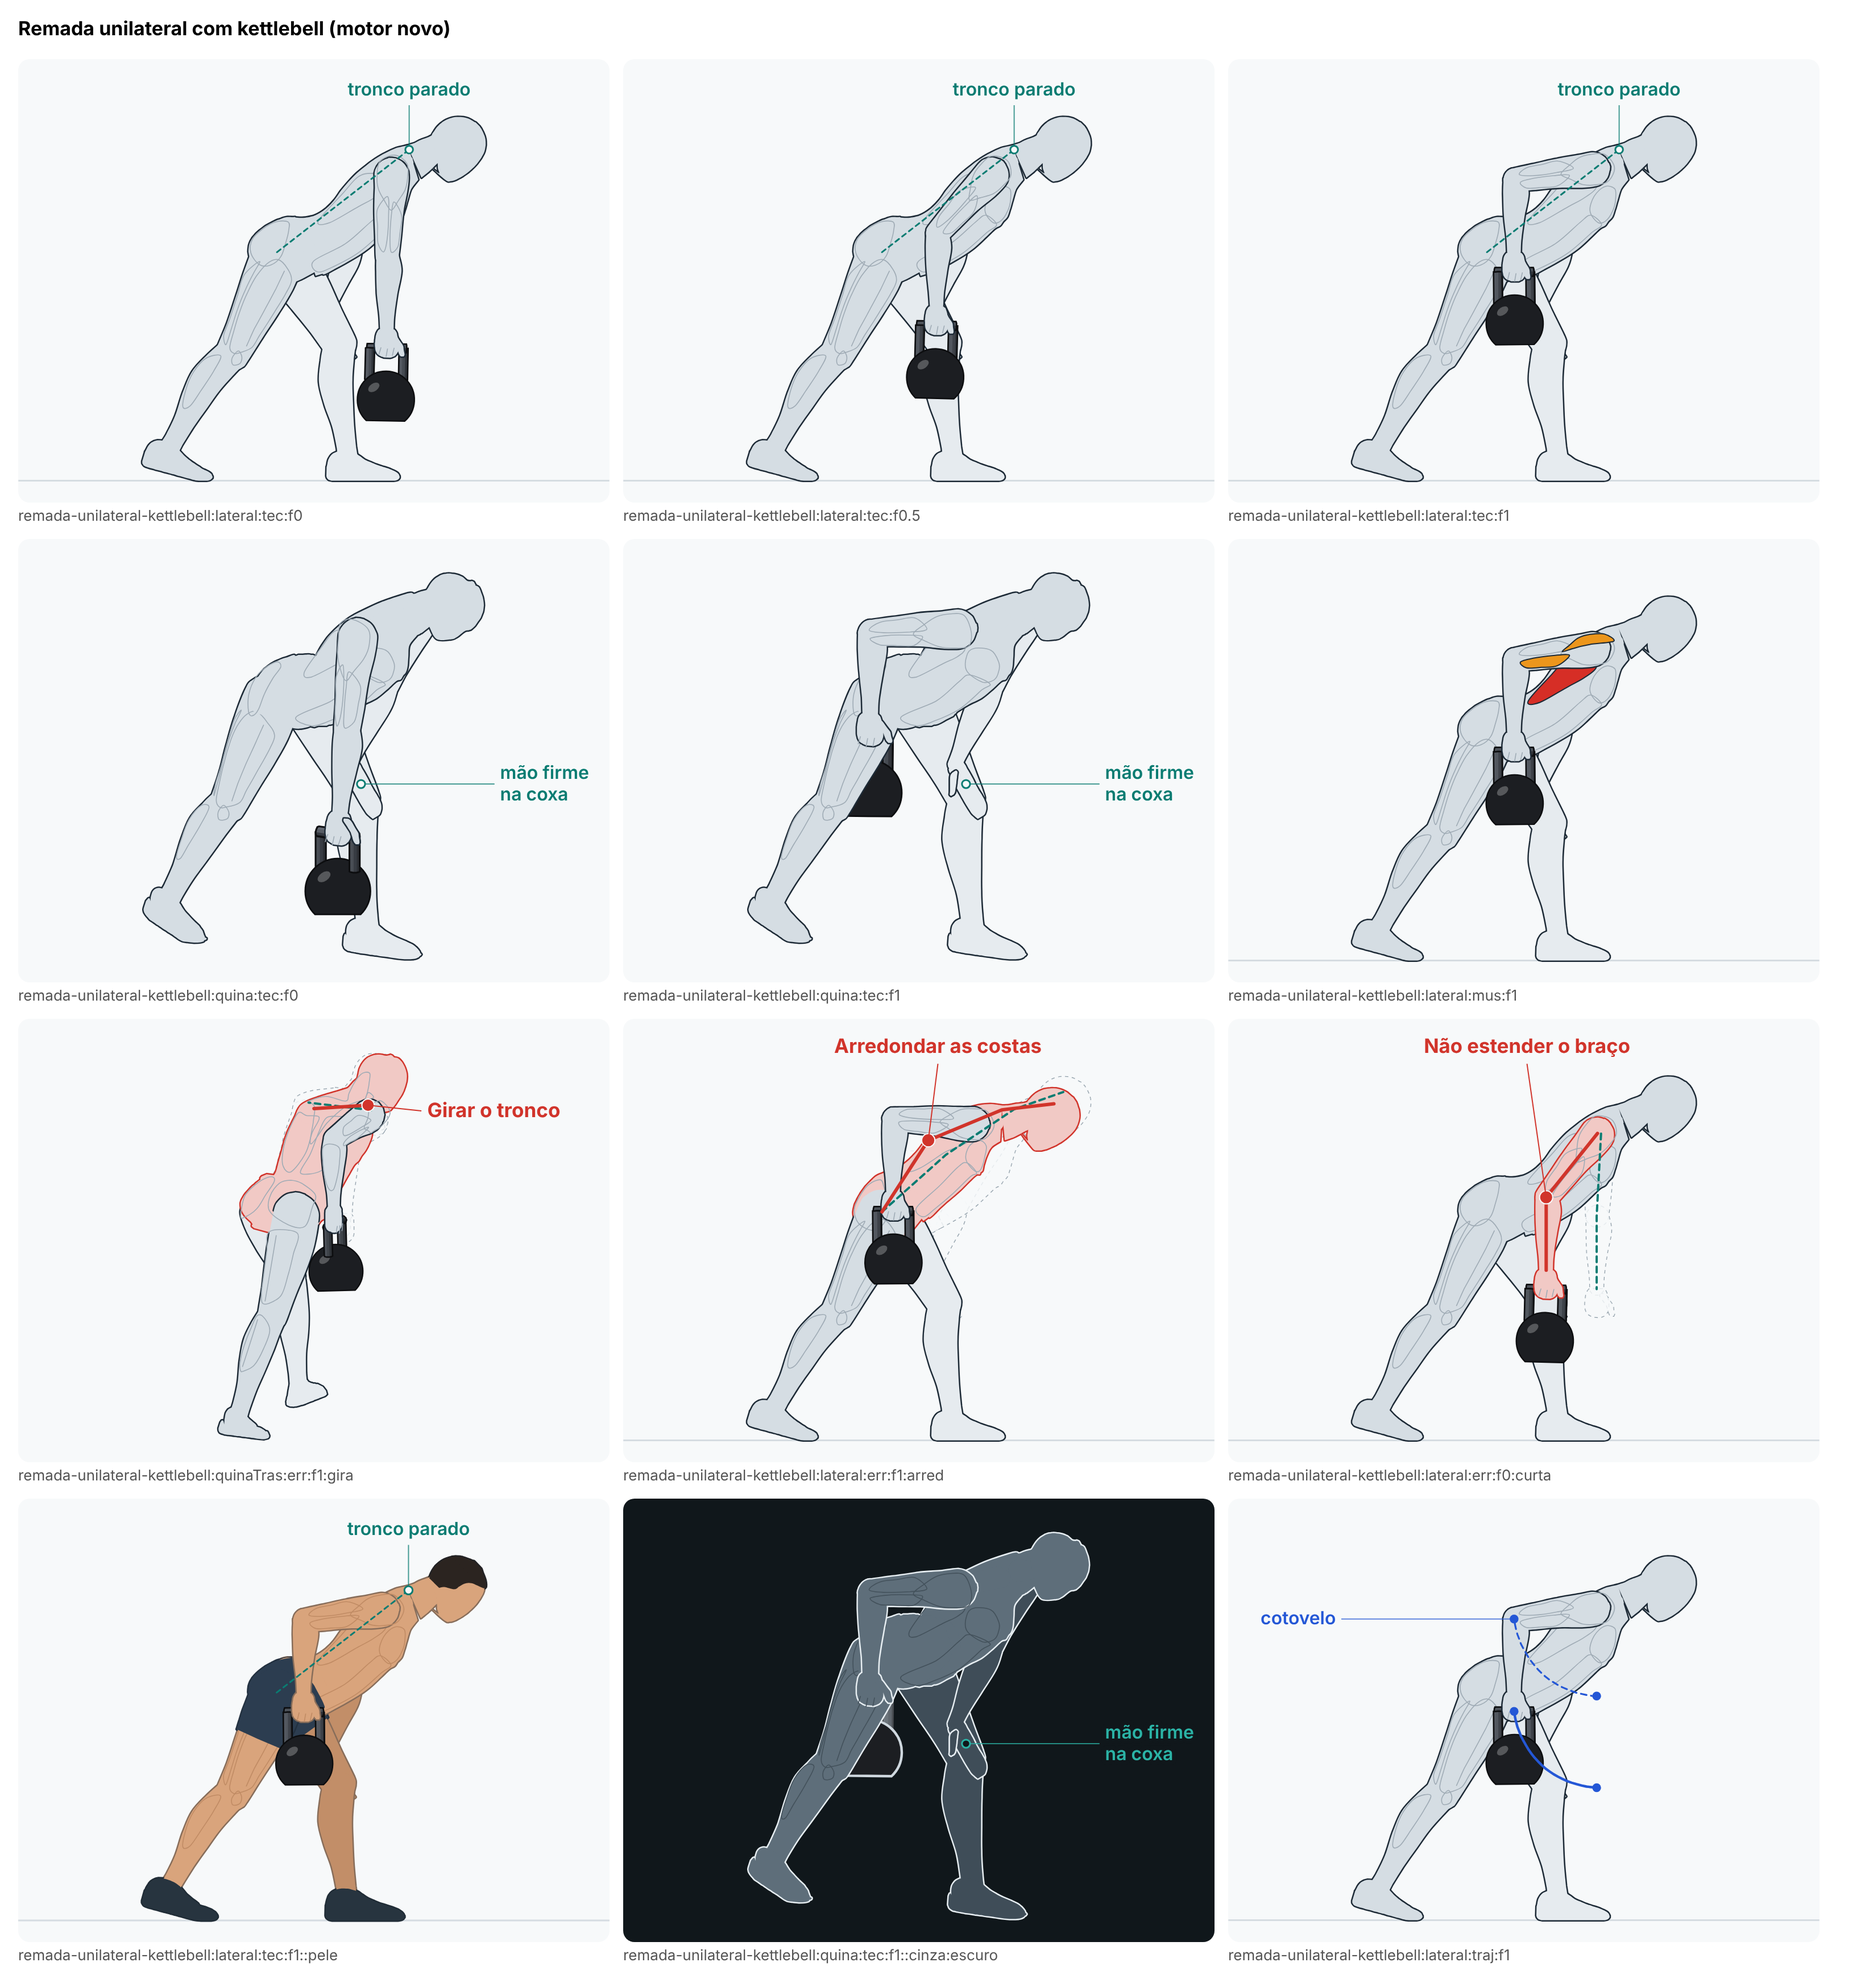
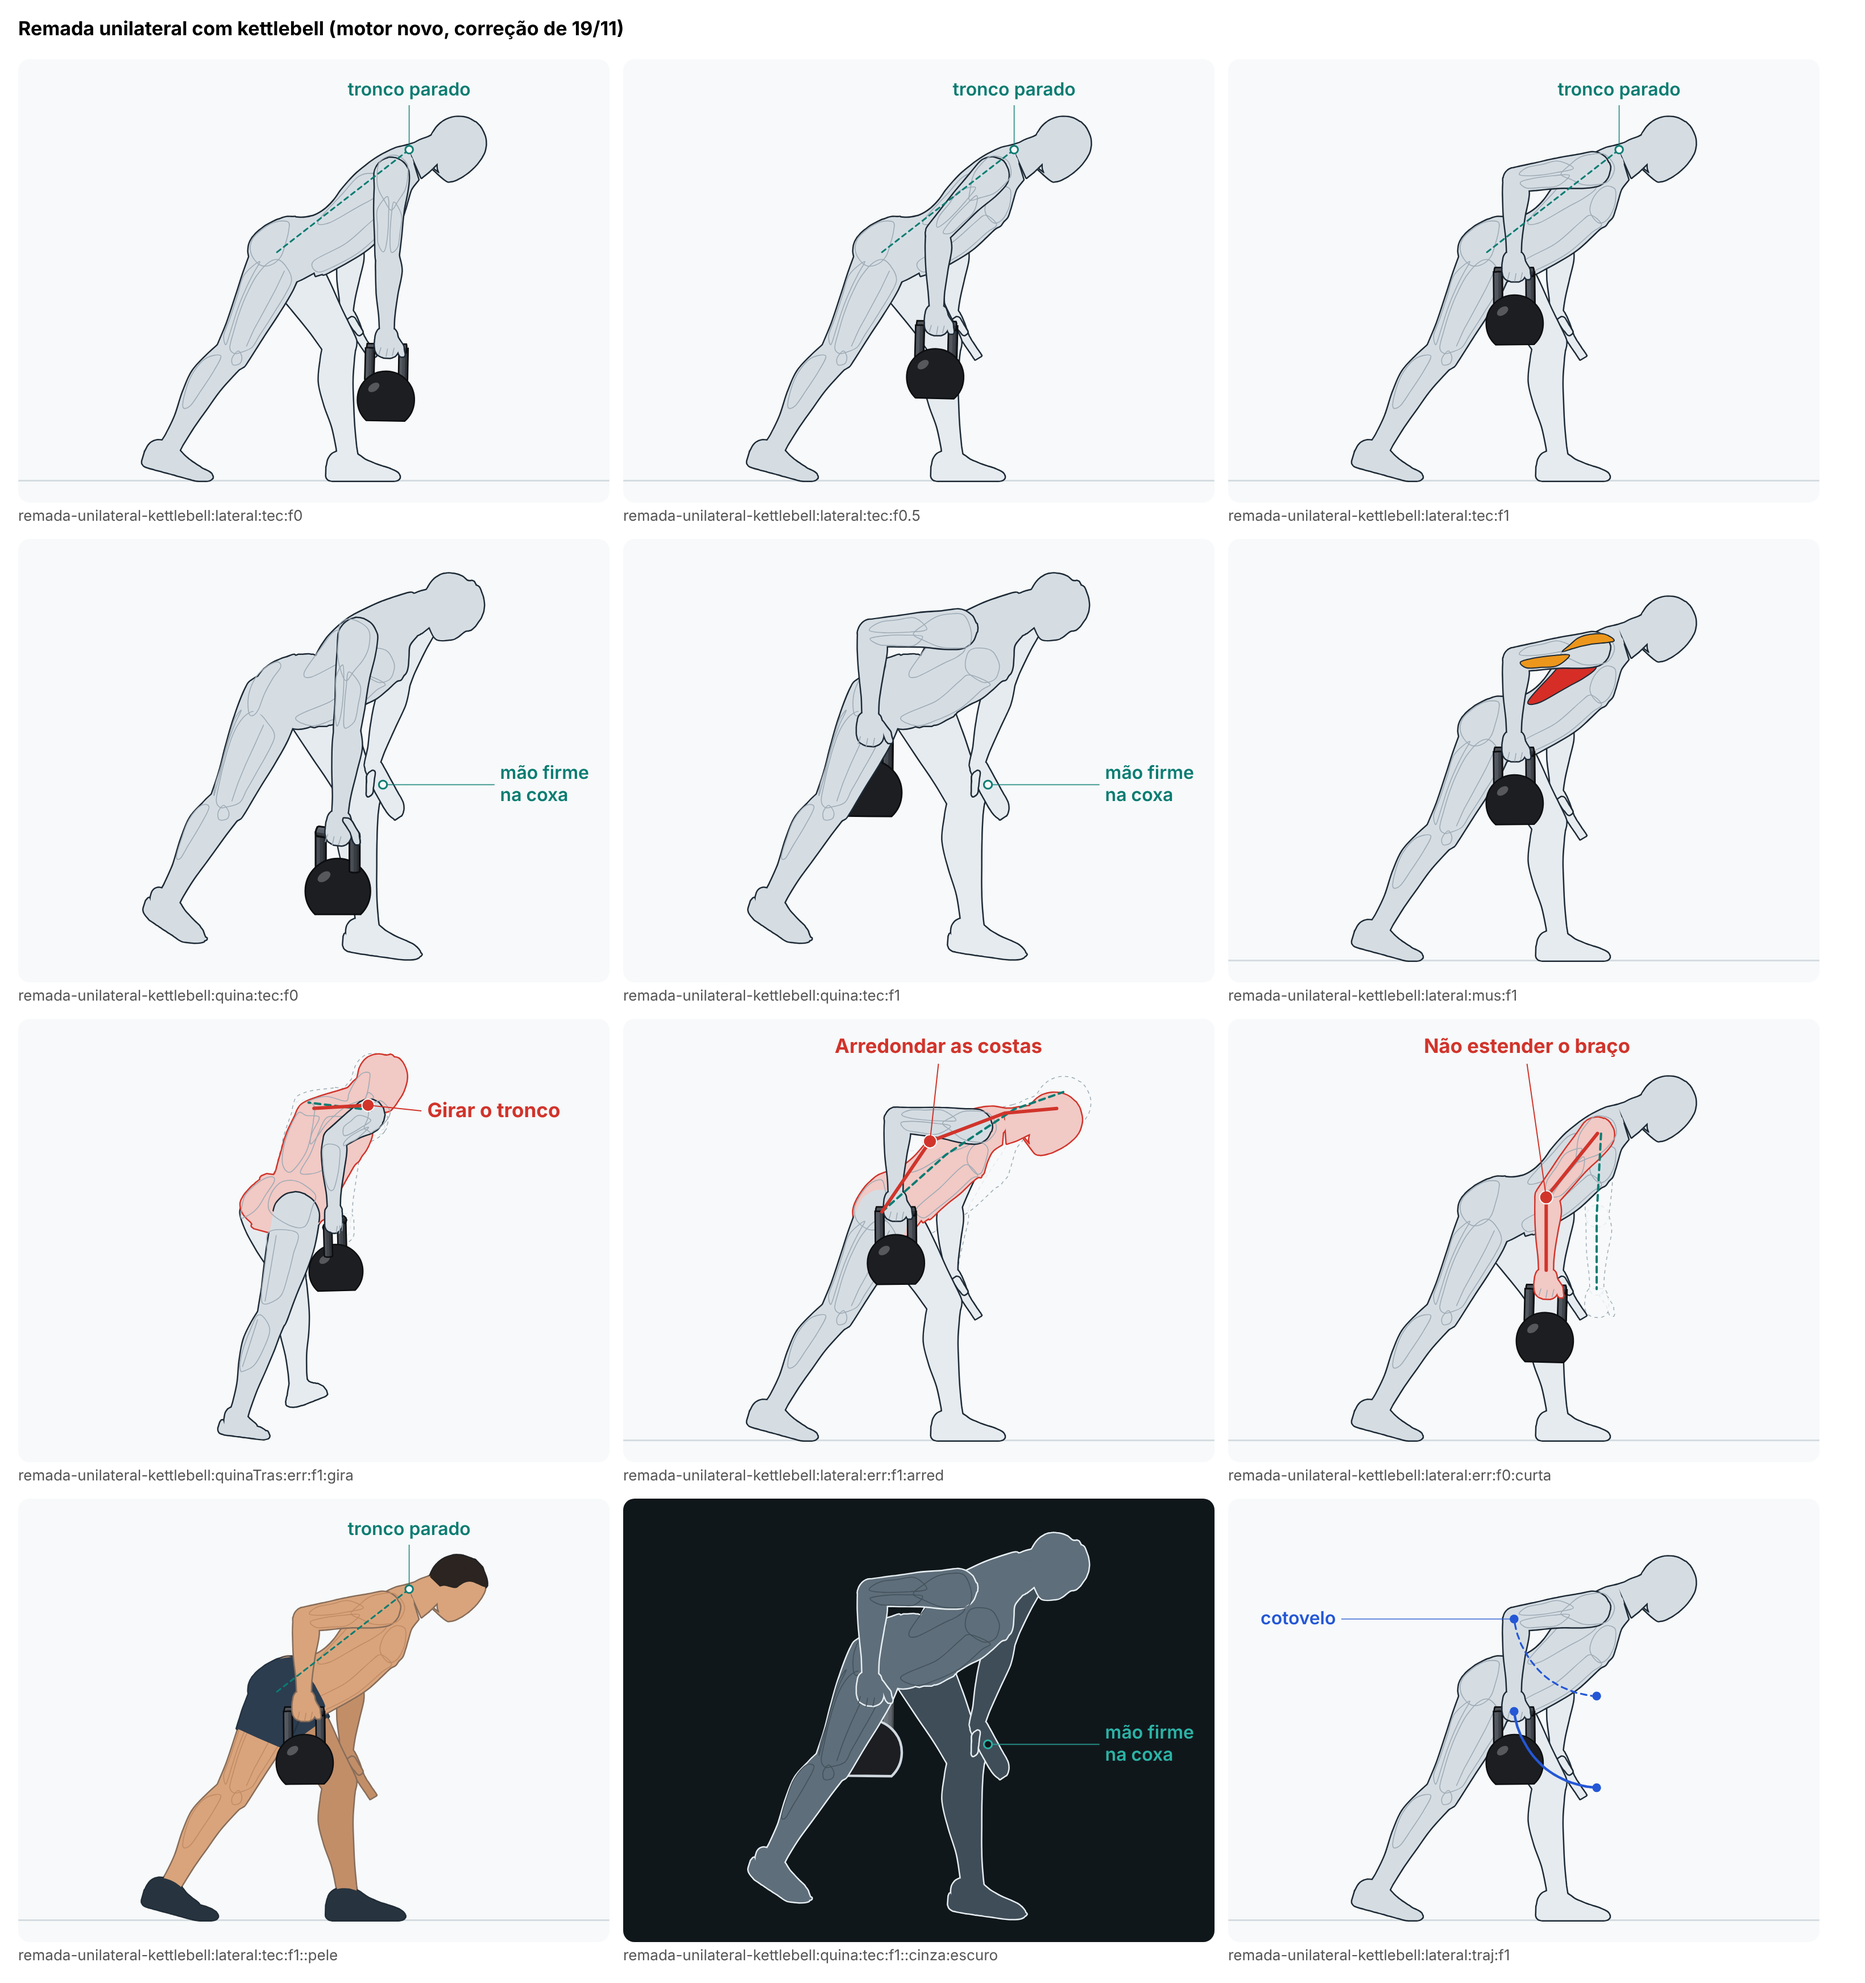
Pousa a mão de apoio na coxa nas remadas sem banco com halter e kettlebell
Achado das auditorias, corrigido com a autorização do Gustavo de 19/11: na
remada unilateral sem banco e na remada unilateral com kettlebell, a mão de
apoio entrava na coxa da frente (o centro da mão a 2,3 cm do eixo da coxa,
3,8 cm dentro da pele; a mão entrava 5,7 cm e o antebraço até 6,8 cm). A mesma
correção da remada com elástico: a base sem banco usa a opção `pele:
peleDaCoxaNaSuperficie`, e o cotovelo de apoio da ficha vai de 12° a 40° (com
12°, o meio da mão passava do joelho: 104% do caminho, e a regra antiga da mão
na coxa falhava).

As duas fichas ligam a regra `remada-elastico-mao-de-apoio-sobre-a-coxa`, no
ciclo e nos erros. Depois: o centro da mão 2,7 cm fora da pele (8,9 cm do
eixo), a 97,2% do caminho do quadril ao joelho, 3,7 cm para dentro da borda;
a mão não entra e o antebraço entra até 0,9 cm (o amassado aceito é 1 cm).
O resto da pose, o braço que puxa, a carga e os rótulos não mudam; nenhum
preparo mudou. Quadros grandes regravados e antes e depois em
`correcao-das-antigas/`.

Claude-Session: https://claude.ai/code/session_01YRzts8DBGbsca9onebcMt1

diff --git a/src/engine/novo/exercicios/remada-unilateral-kettlebell.ts b/src/engine/novo/exercicios/remada-unilateral-kettlebell.ts
@@ -6,10 +6,13 @@ import ficha from '../dados/movimentos/remada-unilateral-kettlebell.json';
 import { daFicha, fichaSchema } from '../movimento';
 import type { Exercicio } from '../movimento';
 import { criarRemada } from './remada';
-import { baseSemBanco } from './remada-sem-banco';
+import { baseSemBanco, peleDaCoxaNaSuperficie } from './remada-sem-banco';
 
 const f = daFicha(fichaSchema.parse(ficha));
-const R = criarRemada(ficha, { bracos: 'R', carga: 'kettlebell', base: (c) => baseSemBanco(c, f), erros: { gira: 'girar', arred: 'arredondar', curta: 'curta' } });
+// a mão de apoio pousa na pele da coxa medida na superfície (`peleDaCoxaNaSuperficie`, como na remada com elástico): com
+// a medida da base comum, o ponto em que ela pousava caía entre dois anéis da coxa e ficava perto do eixo dela, e a mão e
+// o antebraço entravam na coxa (auditoria das aprovadas antigas, 19/11)
+const R = criarRemada(ficha, { bracos: 'R', carga: 'kettlebell', base: (c) => baseSemBanco(c, f, { pele: peleDaCoxaNaSuperficie }), erros: { gira: 'girar', arred: 'arredondar', curta: 'curta' } });
 
 export const remadaUnilateralKettlebell: Exercicio = {
   ficha: R.ficha,

diff --git a/src/engine/novo/exercicios/remada-unilateral-sem-banco.ts b/src/engine/novo/exercicios/remada-unilateral-sem-banco.ts
@@ -5,10 +5,13 @@ import ficha from '../dados/movimentos/remada-unilateral-sem-banco.json';
 import { daFicha, fichaSchema } from '../movimento';
 import type { Exercicio } from '../movimento';
 import { criarRemada } from './remada';
-import { baseSemBanco } from './remada-sem-banco';
+import { baseSemBanco, peleDaCoxaNaSuperficie } from './remada-sem-banco';
 
 const f = daFicha(fichaSchema.parse(ficha));
-const R = criarRemada(ficha, { bracos: 'R', carga: 'halter', base: (c) => baseSemBanco(c, f), erros: { gira: 'girar', arred: 'arredondar', curta: 'curta' } });
+// a mão de apoio pousa na pele da coxa medida na superfície (`peleDaCoxaNaSuperficie`, como na remada com elástico): com
+// a medida da base comum, o ponto em que ela pousava caía entre dois anéis da coxa e ficava perto do eixo dela, e a mão e
+// o antebraço entravam na coxa (auditoria das aprovadas antigas, 19/11)
+const R = criarRemada(ficha, { bracos: 'R', carga: 'halter', base: (c) => baseSemBanco(c, f, { pele: peleDaCoxaNaSuperficie }), erros: { gira: 'girar', arred: 'arredondar', curta: 'curta' } });
 
 export const remadaUnilateralSemBanco: Exercicio = {
   ficha: R.ficha,

diff --git a/docs/revisoes/animacao-nova/lote-4/remada-unilateral-kettlebell.md b/docs/revisoes/animacao-nova/lote-4/remada-unilateral-kettlebell.md
@@ -48,3 +48,25 @@ Nos erros, a bola fica a no mínimo 1,5 cm (homem) e 0,5 cm (mulher) da pele.
 
 - **Na vista de três quartos, de frente, no fim da puxada, a coxa de trás tapa metade da bola** (`quina:tec:f1` e o tema escuro): a bola fica 6 cm ao lado da coxa, mas por esse ângulo a coxa passa na frente dela, e a bola cortada pode parecer atravessada. Na vista de lado ela aparece inteira. Não troquei a vista porque é a única em que a mão livre na coxa aparece.
 - A dica "cotovelo para o quadril" ficou de fora da vista de lado (o fio atravessaria as costas); a trajetória mostra o mesmo.
+
+
+## Correção de 19/11 (mão de apoio; auditoria das aprovadas antigas)
+
+O Gustavo autorizou em 19/11 corrigir as aprovadas antigas com o defeito achado nas auditorias: a mão de apoio entrava na coxa da frente. A base das remadas sem banco (`./remada-sem-banco.ts`) procura o ponto da pele da coxa entre pontos a até 2,5 cm de um plano; entre dois anéis afastados ela não acha nenhum e põe a mão perto do eixo da coxa. É o mesmo defeito, e a mesma correção, da remada unilateral com elástico (M4).
+
+**A mudança.** A base passa a usar a opção `pele: peleDaCoxaNaSuperficie` (acréscimo de 19/11, desligada por padrão: o anel da coxa interpolado e a elipse dele). Com a mão pousada na pele, o braço de apoio quase estendido levava o meio da mão além do joelho (com 12° pedidos, o cotovelo não chegava a menos de 22° e o centro da mão ficava a 104% do caminho do quadril ao joelho; a regra antiga `mao-de-apoio-na-coxa` falhava): o cotovelo de apoio da ficha (`apoio.cotovelo`) vai de **12° a 40°**, o mesmo da remada com elástico. A pose do resto do corpo, o braço que puxa, o kettlebell, os rótulos e os erros não mudam. A ficha liga a regra `remada-elastico-mao-de-apoio-sobre-a-coxa` (`src/engine/novo/regras/remada-unilateral-elastico.ts`), que mede no ciclo e nos erros.
+
+| mão de apoio (ciclo e erros) | antes (`72d00fc`) | depois |
+|---|---|---|
+| centro da mão até o eixo da coxa | 2,3 cm | 8,9 cm |
+| centro da mão fora da pele da coxa (negativo = dentro) | −3,8 cm | +2,7 cm |
+| a pele da mão entra na coxa | 5,7 cm | 0 cm |
+| a pele do antebraço entra na coxa | 6,8 cm (6,7 no ciclo) | 0,9 cm (0,8 no ciclo; o amassado aceito é 1 cm) |
+| onde fica o centro da mão (quadril → joelho) | 88,2% | 97,2% |
+| centro da mão até a borda lateral da coxa | 4,7 cm | 3,7 cm |
+| a mão até a pele da coxa | 0,2 cm | 0,5 cm |
+| cotovelo de apoio | 12° (32° no erro "Girar o tronco") | 40° (51° no erro "Girar o tronco") |
+
+A conferência dá 0 falhas antes e depois (a regra nova não estava ligada antes; ligada no estado de antes, ela falha). O antes e depois está em `correcao-das-antigas/remada-unilateral-kettlebell.png` (de três quartos inteiro e de perto, e de lado de perto); os quadros grandes foram regravados (`quadros/remada-unilateral-kettlebell.png`).
+
+**O que ainda não ficou bom.** A mão pousa perto do joelho (97% do caminho), e não no meio da coxa; de três quartos aparece só um pedaço da palma sobre a coxa, perto do joelho, como na remada com elástico aprovada.

diff --git a/docs/revisoes/animacao-nova/lote-4/remada-unilateral-sem-banco.md b/docs/revisoes/animacao-nova/lote-4/remada-unilateral-sem-banco.md
@@ -54,3 +54,25 @@ Músculos: dorsal e meio das costas do lado direito em vermelho; ombro de trás 
 
 - **De lado, a mão livre na coxa não aparece** (fica atrás da perna e do braço direitos): é o lado de longe. Por isso o rótulo dela foi para a outra vista, e o modo Músculos fica de lado, que mostra menos o músculo que a vista de trás. Risco de o Gustavo preferir a de três quartos, de trás, como segunda vista.
 - A dica "cotovelo para o quadril" ficou de fora: de lado, o fio dela atravessava as costas no fim da puxada; a trajetória do cotovelo mostra o mesmo.
+
+
+## Correção de 19/11 (mão de apoio; auditoria das aprovadas antigas)
+
+O Gustavo autorizou em 19/11 corrigir as aprovadas antigas com o defeito achado nas auditorias: a mão de apoio entrava na coxa da frente. A base das remadas sem banco (`./remada-sem-banco.ts`) procura o ponto da pele da coxa entre pontos a até 2,5 cm de um plano; entre dois anéis afastados ela não acha nenhum e põe a mão perto do eixo da coxa. É o mesmo defeito, e a mesma correção, da remada unilateral com elástico (M4).
+
+**A mudança.** A base passa a usar a opção `pele: peleDaCoxaNaSuperficie` (acréscimo de 19/11, desligada por padrão: o anel da coxa interpolado e a elipse dele). Com a mão pousada na pele, o braço de apoio quase estendido levava o meio da mão além do joelho (com 12° pedidos, o cotovelo não chegava a menos de 22° e o centro da mão ficava a 104% do caminho do quadril ao joelho; a regra antiga `mao-de-apoio-na-coxa` falhava): o cotovelo de apoio da ficha (`apoio.cotovelo`) vai de **12° a 40°**, o mesmo da remada com elástico. A pose do resto do corpo, o braço que puxa, o halter, os rótulos e os erros não mudam. A ficha liga a regra `remada-elastico-mao-de-apoio-sobre-a-coxa` (`src/engine/novo/regras/remada-unilateral-elastico.ts`), que mede no ciclo e nos erros.
+
+| mão de apoio (ciclo e erros) | antes (`72d00fc`) | depois |
+|---|---|---|
+| centro da mão até o eixo da coxa | 2,3 cm | 8,9 cm |
+| centro da mão fora da pele da coxa (negativo = dentro) | −3,8 cm | +2,7 cm |
+| a pele da mão entra na coxa | 5,7 cm | 0 cm |
+| a pele do antebraço entra na coxa | 6,8 cm (6,7 no ciclo) | 0,9 cm (0,8 no ciclo; o amassado aceito é 1 cm) |
+| onde fica o centro da mão (quadril → joelho) | 88,2% | 97,2% |
+| centro da mão até a borda lateral da coxa | 4,7 cm | 3,7 cm |
+| a mão até a pele da coxa | 0,2 cm | 0,5 cm |
+| cotovelo de apoio | 12° (32° no erro "Girar o tronco") | 40° (51° no erro "Girar o tronco") |
+
+A conferência dá 0 falhas antes e depois (a regra nova não estava ligada antes; ligada no estado de antes, ela falha). O antes e depois está em `correcao-das-antigas/remada-unilateral-sem-banco.png` (de três quartos inteiro e de perto, e de lado de perto); os quadros grandes foram regravados (`quadros/remada-unilateral-sem-banco.png`).
+
+**O que ainda não ficou bom.** A mão pousa perto do joelho (97% do caminho), e não no meio da coxa; de três quartos aparece só um pedaço da palma sobre a coxa, perto do joelho, como na remada com elástico aprovada.
